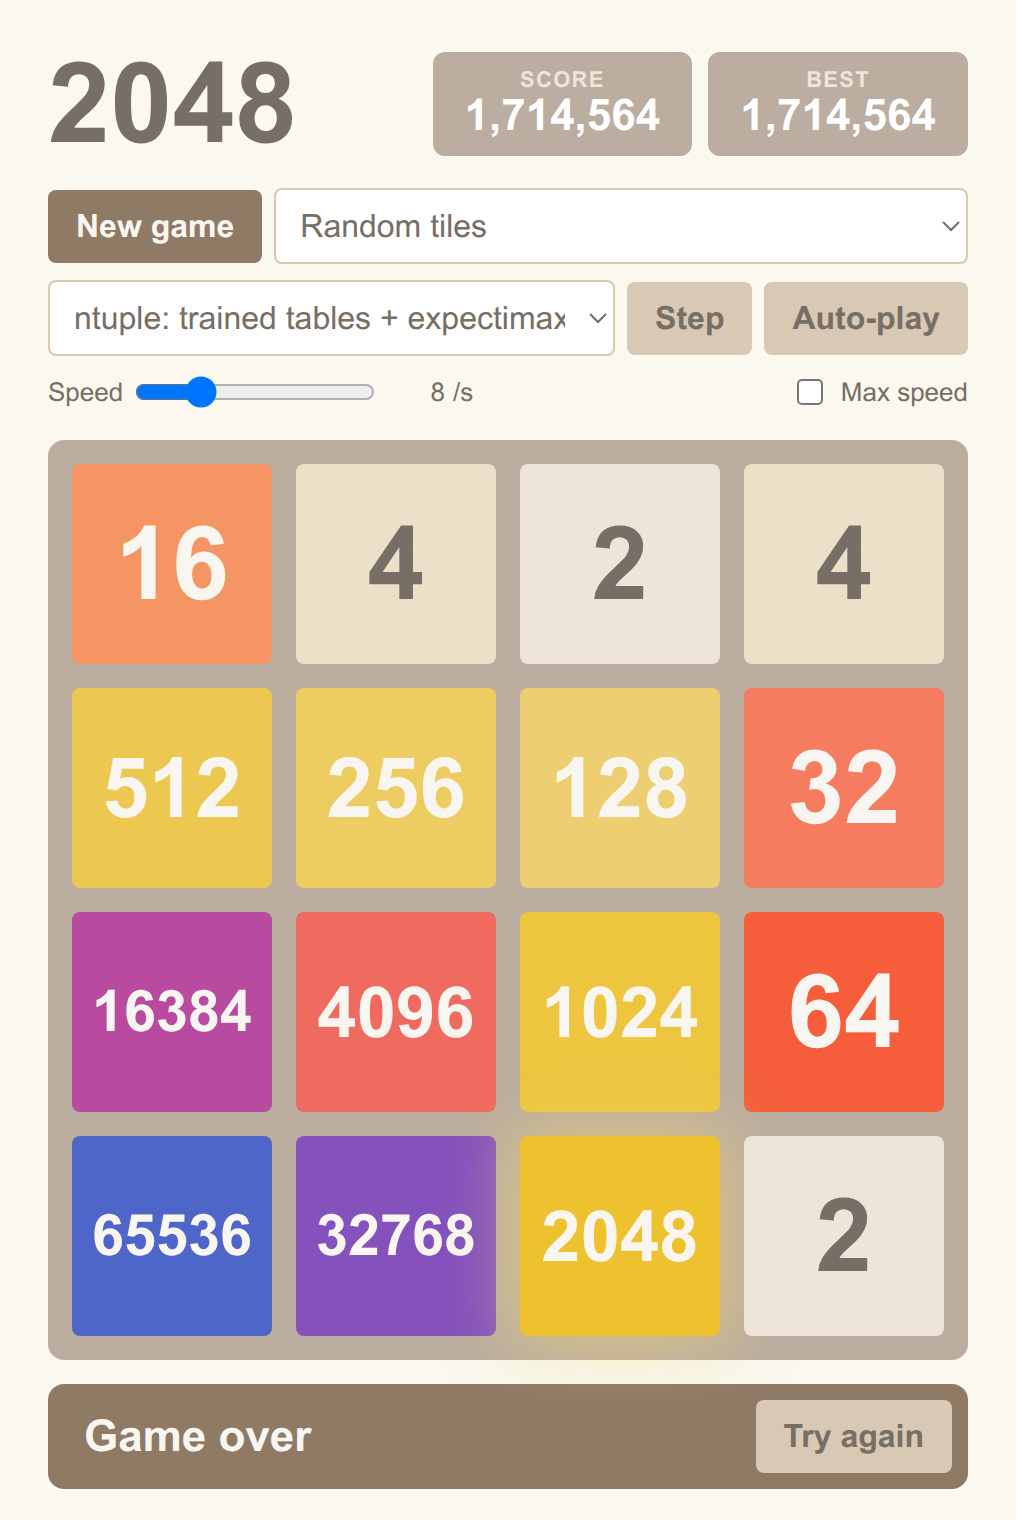
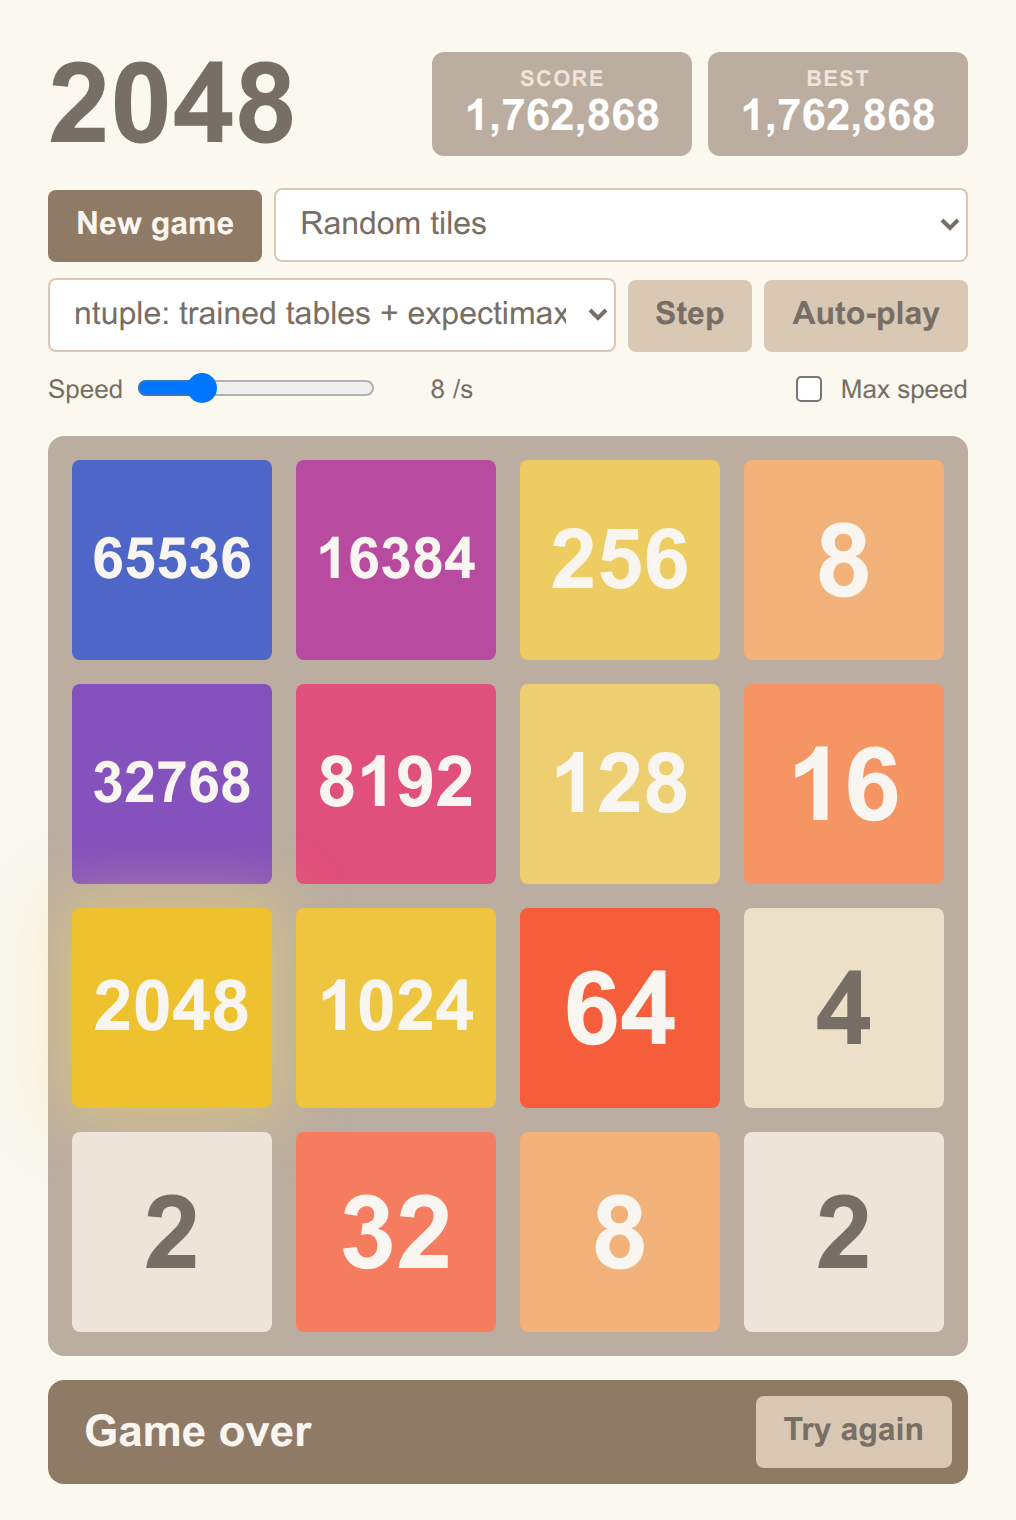
README: a new record game, 1,762,868 (game 470406 of seed 8000, no search before the hand-over); credit 2048EndgameTablebase's 1,712,092 [skip ci]

diff --git a/README.md b/README.md
@@ -8,9 +8,11 @@ where you can watch them or play yourself.
 
 Three results:
 
-- **A record game: 1,714,564 points.** One game, played start to finish by the
-  player here, ended with 65536, 32768, 16384 and 4096 on the board. The best
-  single game I know of before it is macroxue's 1,704,908. The player uses
+- **A record game: 1,762,868 points.** One game, played start to finish by the
+  player here, ended with 65536, 32768, 16384 and 8192 on the board. The best
+  single game I know of by another program is 1,712,092, by the AI of
+  [2048EndgameTablebase](https://github.com/game-difficulty/2048EndgameTablebase),
+  and before it macroxue's 1,704,908. The player uses
   the v2 networks below until late in the game, then a hand-written search
   and exact endgame tables. The game can be [checked and played
   again](#the-record-player-v3) move for move.
@@ -28,14 +30,14 @@ Three results:
 
 For scale: a person who reaches the 2048 tile once has about 20,000 points.
 
-<img src="docs/images/record-board.png" alt="The last board of the record game on the web page: 65536, 32768, 16384, 4096, 2048 and 1024 among smaller tiles, with 1,714,564 points" width="380">
+<img src="docs/images/record-board.png" alt="The last board of the record game on the web page: 65536, 32768, 16384, 8192, 2048 and 1024 among smaller tiles, with 1,762,868 points" width="380">
 
-*The last board of the record game, game 3049, on the web page: 1,714,564
-points after 55,903 moves.*
+*The last board of the record game, game 470406, on the web page: 1,762,868
+points after 57,482 moves.*
 
-![The record game, game 3049, from the first tile to the last, sped up](docs/images/record-game.gif)
+![The record game, game 470406, from the first tile to the last, sped up](docs/images/record-game.gif)
 
-*Game 3049 from the first tile to the last: 91 moments out of 55,903 moves,
+*Game 470406 from the first tile to the last: 91 moments out of 57,482 moves,
 spaced closer early on, when the board changes fastest, and over the last
 thousand moves, as the board fills up and the game ends.*
 
@@ -262,7 +264,9 @@ Alone, these networks never made a 65536. Their best games end near 840,000
 points, a board holding every tile from 32768 down. Programs built on search
 and exact endgame tables do get there:
 [macroxue/2048-ai](https://github.com/macroxue/2048-ai) averages 711,769 at
-its deepest search and reports a single game of 1,704,908. The record player
+its deepest search and reports a single game of 1,704,908, and the AI of
+[2048EndgameTablebase](https://github.com/game-difficulty/2048EndgameTablebase)
+reaches 65536 in about 9% of games, with a best game of 1,712,092. The record player
 below adds that kind of late game to these networks.
 
 The two networks took four training runs and 107 hours:
@@ -278,25 +282,33 @@ game](#the-late-game) from the first board holding a 32768 and a 16384.
 | --- | --- | --- | --- | --- | --- |
 | 574,188 ± 2,986 | 620,860 | **1,714,564** | 96.9% | 57.8% | 1.5% |
 
-The best game is game 3049, 55,903 moves:
+Its best game, game 3049 (55,903 moves, 1,714,564 points), was the first
+here to pass 1,704,908; it is attached to the
+[v3.0 release](https://github.com/LoganBradley787/2048-rl/releases/tag/v3.0).
+
+**Hunting for records.** From a board holding a 32768 and a 16384, about 4%
+of games go on to make a 65536, whichever player built that board. So a
+faster player makes more 65536s per hour even if it reaches the hand-over
+less often. With no search before the hand-over (depth 0) and the same late
+game, the player reaches 65536 in 0.47% of games instead of 1.5%, but plays
+about 17 times as many games an hour: about 358 65536s per hour on an 8-core
+machine against 63 at depth 2. Over 2,200,000 games at that setting (seed
+8000, about 26 hours on a laptop), it averaged 422,630, and ten games beat
+1,704,908. The best is game 470406, 57,482 moves, **1,762,868** points:
 
 ```
-    16      4      2      4
-   512    256    128     32
- 16384   4096   1024     64
- 65536  32768   2048      2
+ 65536  16384    256      8
+ 32768   8192    128     16
+  2048   1024     64      4
+     2     32      8      2
 ```
 
 Its moves, its settings and the checksums of the tables are attached to the
-[v3.0 release](https://github.com/LoganBradley787/2048-rl/releases/tag/v3.0).
+[v3.1 release](https://github.com/LoganBradley787/2048-rl/releases/tag/v3.1).
 `examples/rules2048.py`, which shares no code with the engine, checks the
 game against the rules. `examples/verify_game.py` plays it again from its
-seed with the v2 weights and the tables (about 1.5 hours to build, 42 GB).
-It has been played again on an Intel laptop and an AMD server and came out
-the same, move for move.
-
-Measured over many games, about one in 100,000 should beat 1,704,908. This
-one came early.
+seed with the v2 weights and the tables (about 1.5 hours to build, 42 GB),
+move for move.
 
 ### Download the trained player
 
